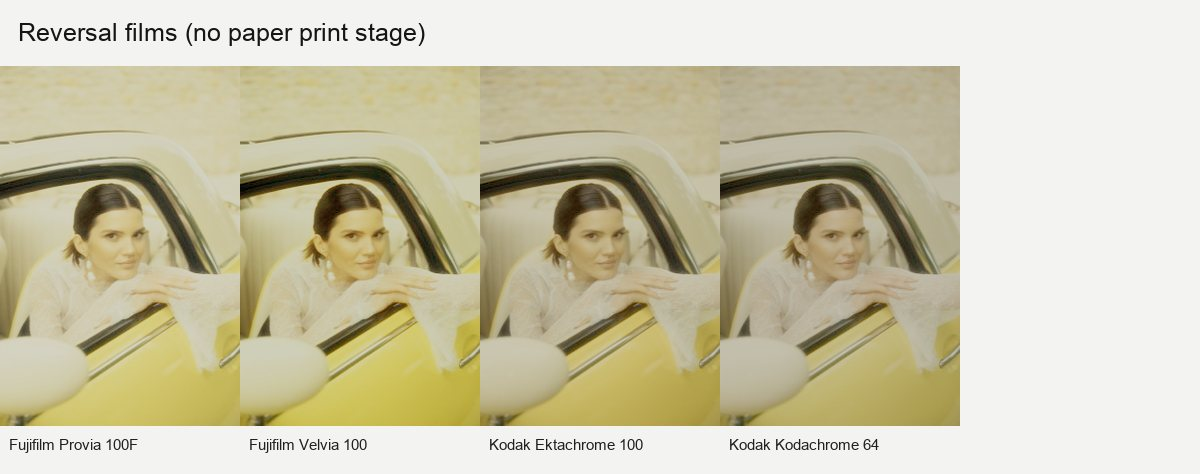
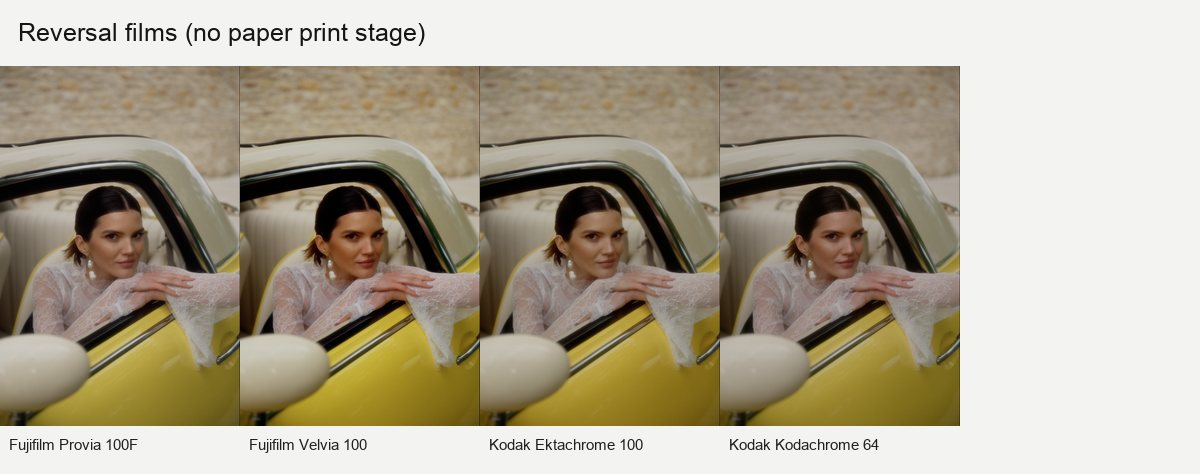
docs: regenerate samples with iOS color pipeline

diff --git a/tools/generate-readme-stock-previews.py b/tools/generate-readme-stock-previews.py
@@ -6,6 +6,7 @@ from __future__ import annotations
 import argparse
 import json
 import shutil
+import struct
 import subprocess
 import sys
 import tempfile
@@ -20,24 +21,22 @@ sys.path.insert(0, str(ENGINE / "tests"))
 
 from spk_ctypes import Engine, EngineError  # noqa: E402
 
-SRGB_TO_PROPHOTO = np.array([
-    [0.7977666, 0.1351813, 0.0313477],
-    [0.2880748, 0.7118352, 0.0000899],
-    [0.0, 0.0, 0.8252100],
-], dtype=np.float32)
-
-
 def decode_raw(path: Path, work: Path) -> np.ndarray:
-    jpeg = work / "apple-raw-preview.jpg"
+    decoder = work / "image-decoder-dump"
+    dump = work / "frame.bin"
     subprocess.run([
-        "sips", "-s", "format", "jpeg", "--resampleHeightWidthMax", "360",
-        str(path), "--out", str(jpeg),
-    ], check=True, stdout=subprocess.DEVNULL)
-    decoded = ImageOps.exif_transpose(Image.open(jpeg)).convert("RGB")
-    rgb = np.asarray(decoded, dtype=np.float32) / 255.0
-    linear = np.where(rgb <= 0.04045, rgb / 12.92,
-                      np.power((rgb + 0.055) / 1.055, 2.4)).astype(np.float32)
-    return np.ascontiguousarray(linear @ SRGB_TO_PROPHOTO.T)
+        "xcrun", "swiftc",
+        str(ROOT / "ios/SpektraLab/Import/ImageDecoder.swift"),
+        str(ROOT / "ios/Tests/ImageDecoderDump/main.swift"),
+        "-o", str(decoder),
+        "-framework", "CoreImage", "-framework", "CoreGraphics",
+        "-framework", "ImageIO", "-framework", "UniformTypeIdentifiers",
+    ], check=True)
+    subprocess.run([str(decoder), str(path), str(dump), "1024"], check=True)
+    blob = dump.read_bytes()
+    width, height = struct.unpack_from("<II", blob)
+    frame = np.frombuffer(blob, dtype="<f4", offset=8)
+    return np.ascontiguousarray(frame.reshape(height, width, 3))
 
 
 def profile_catalog(resources: Path) -> tuple[list[tuple[str, str]], list[tuple[str, str]], list[tuple[str, str]]]:
@@ -75,10 +74,13 @@ def render(engine: Engine, frame: np.ndarray, film: str, paper: str,
         "input_color_space": "ProPhoto RGB", "input_cctf_decoding": False,
         "output_color_space": "sRGB", "output_cctf_encoding": True,
         "film_stock": film, "print_stock": paper, "auto_exposure": True,
-        "grain_active": True, "grain_amount": 0.35,
-        "halation_active": True, "halation_amount": 0.25,
-        "glare_active": True, "glare_amount": 0.15,
-        "density_curve_gamma": 0.45,
+        "auto_exposure_method": "balanced", "film_format_mm": 36.0,
+        "grain_active": True, "grain_sublayers_active": True, "grain_amount": 1.0,
+        "halation_active": True, "halation_amount": 1.0,
+        "halation_scatter_amount": 1.0, "halation_headroom_ev": 4.0,
+        "dir_couplers_active": True, "dir_couplers_amount": 1.0,
+        "glare_active": True, "glare_amount": 1.0,
+        "density_curve_gamma": 1.0, "filter_shift_scale": 40.0,
     }
     if scan_film:
         delta["scan_film"] = True
